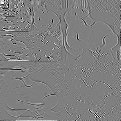
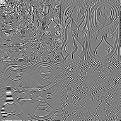
no message

diff --git a/feature_getters.py b/feature_getters.py
@@ -39,7 +39,7 @@ class Haralick(FeatureGetter):
     num_pc: int = 24
 
     def plot(self, image: np.ndarray) -> bytes:
-        gaussian = mahotas.gaussian_filter(image, 24)
+        gaussian = mahotas.gaussian_filter(image, self.num_pc)
         gaussian = (gaussian > gaussian.mean())
         labelled, n = mahotas.label(gaussian)
         features = mahotas.features.haralick(labelled).mean(axis=0)
@@ -65,7 +65,7 @@ class Haralick(FeatureGetter):
         return features
 
     def get_teach_param(self, image=None):
-        return range(1, 120, 10)
+        return range(1, 20)
 
     def set_param(self, num_pc: int):
         self.num_pc = num_pc

diff --git a/main.py b/main.py
@@ -22,7 +22,8 @@ class Main_Window(QtWidgets.QMainWindow, Ui_MainWindow):
         self.methods = {
             'WaveletTransform': {'name': 'step', 'value': 5},
             'PCAanalisys': {'name': 'P/Q', 'value': 20},
-            'Haralick': {'name': 'P/D', 'value': 10}
+            'Haralick': {'name': 'P/D', 'value': 10},
+            # 'Random': {'name': 'Num pixels', 'value': 10},
         }
 
         self.authors = ['Pablo Picasso', 'Sandro Botticelli', 'Vincent van Gogh', 'Ilya Repin',
